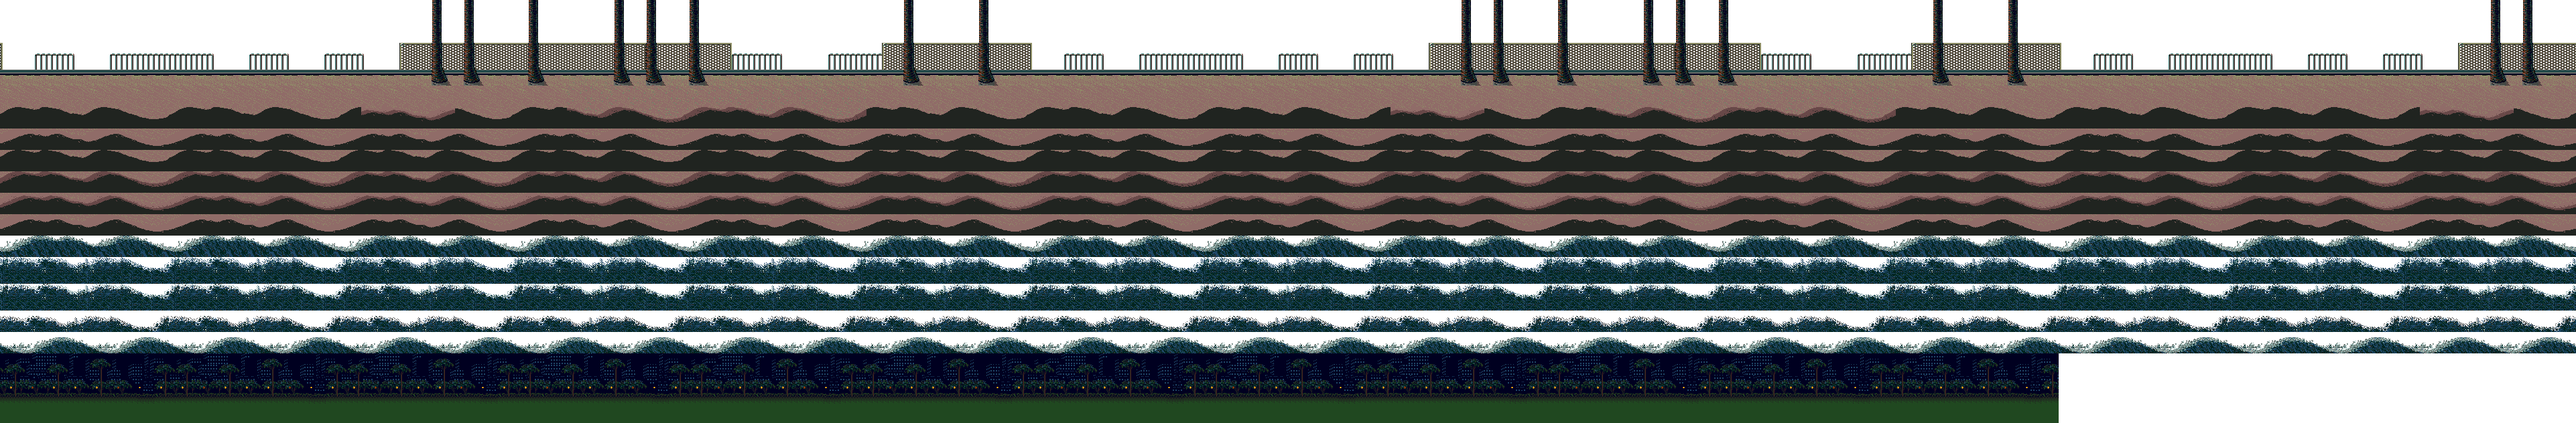
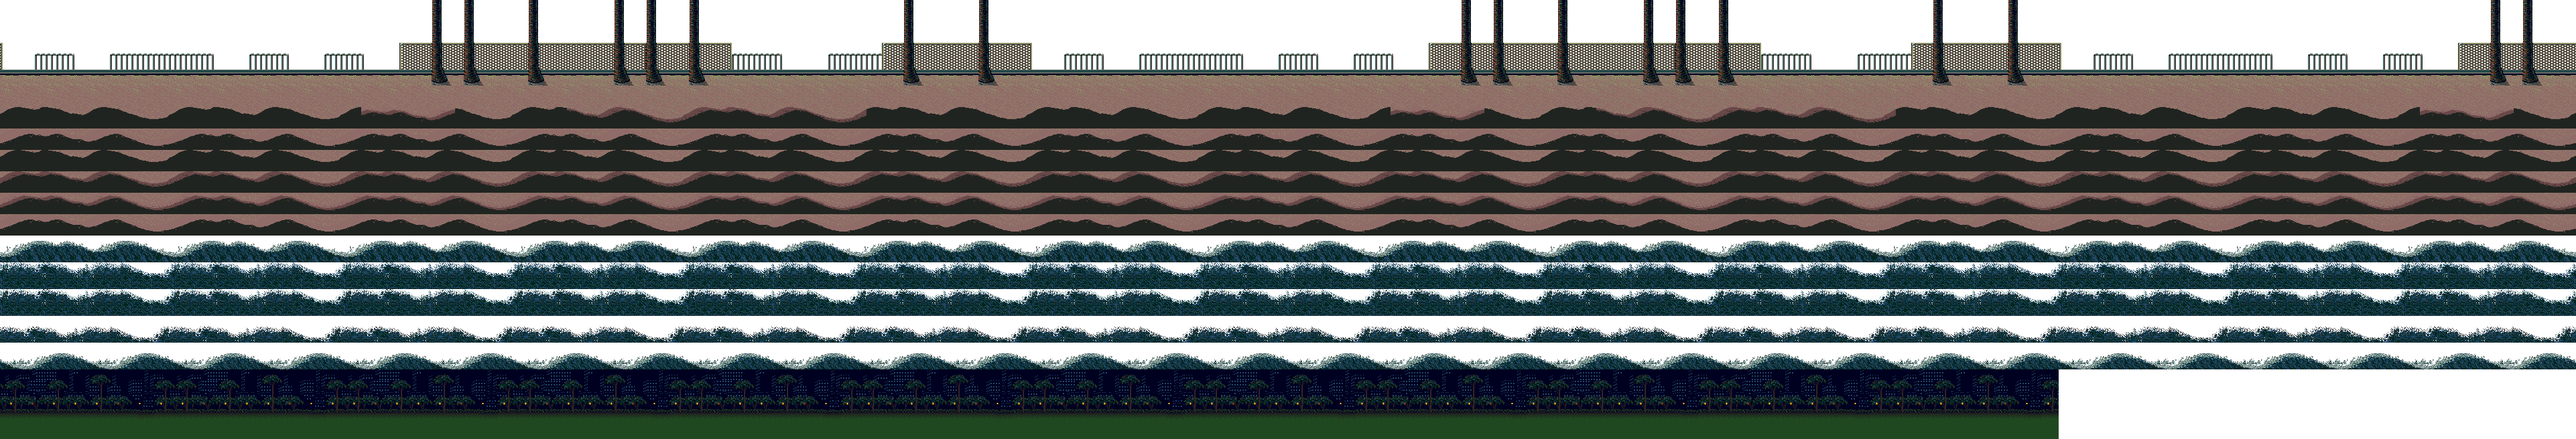
Scene3: All graphic elements in place and animated

diff --git a/ModuleScene3.cpp b/ModuleScene3.cpp
@@ -42,6 +42,15 @@ update_status ModuleScene3::Update()
 	//Draw everything
 	App->renderer->Blit(graphics, foreground_pos.x, foreground_pos.y, &foreground_section, (float) (foreground_section.w - App->window->m_screen_width) / (float)(background_section.w - App->window->m_screen_width));
 	App->renderer->Blit(graphics, background_pos.x, background_pos.y, &background_section, 1.0F);
+	App->renderer->Blit(graphics, wave_sand_pos.x, wave_sand_pos.y, &(wave_sand.GetCurrentFrame()), 1.0F);			// wet sand painted first
+	App->renderer->Blit(graphics, wave_splash_pos.x, wave_splash_pos.y, &(wave_splash.GetCurrentFrame()), 1.0F);	// waves painted last
+	return UPDATE_CONTINUE;
+}
+
+update_status ModuleScene3::PostUpdate()
+{
+
+	
 	return UPDATE_CONTINUE;
 }
 
@@ -58,6 +67,7 @@ bool ModuleScene3::LoadConfigFromFile(const char* file_path)
 	JSON_Value *root_value = json_parse_file(file_path);
 	JSON_Array *j_array_pos; 
 	JSON_Array *j_array_section;
+	JSON_Array *j_array_tmp;
 
 	if (root_value == nullptr)
 		return false;
@@ -97,9 +107,44 @@ bool ModuleScene3::LoadConfigFromFile(const char* file_path)
 	json_array_clear(j_array_section);
 
 	//wave_sand load
+	j_array_pos = json_object_dotget_array(json_object(root_value), "scene3.wave_sand.position");
+	j_array_section = json_object_dotget_array(json_object(root_value), "scene3.wave_sand.section");
 
+	wave_sand_pos.x = (int)json_array_get_number(j_array_pos, 0);
+	wave_sand_pos.y = (int)json_array_get_number(j_array_pos, 1);
+	
+	for (int i = 0; i < (int) json_array_get_count(j_array_section); ++i)
+	{
+		j_array_tmp = json_array_get_array(j_array_section, i);
+		wave_sand.frames.push_back({ (int)json_array_get_number(j_array_tmp, 0), (int)json_array_get_number(j_array_tmp, 1), (int)json_array_get_number(j_array_tmp, 2), (int)json_array_get_number(j_array_tmp, 3) });
+		json_array_clear(j_array_tmp);
+	}
 
+	wave_sand.speed = (float)json_object_dotget_number(json_object(root_value), "scene3.wave_sand.speed");
 
+	json_array_clear(j_array_pos);
+	json_array_clear(j_array_section);
+
+	//wave_splash load
+	j_array_pos = json_object_dotget_array(json_object(root_value), "scene3.wave_splash.position");
+	j_array_section = json_object_dotget_array(json_object(root_value), "scene3.wave_splash.section");
+
+	wave_splash_pos.x = (int)json_array_get_number(j_array_pos, 0);
+	wave_splash_pos.y = (int)json_array_get_number(j_array_pos, 1);
+
+	for (int i = 0; i < (int)json_array_get_count(j_array_section); ++i)
+	{
+		j_array_tmp = json_array_get_array(j_array_section, i);
+		wave_splash.frames.push_back({ (int)json_array_get_number(j_array_tmp, 0), (int)json_array_get_number(j_array_tmp, 1), (int)json_array_get_number(j_array_tmp, 2), (int)json_array_get_number(j_array_tmp, 3) });
+		json_array_clear(j_array_tmp);
+	}
+
+	wave_splash.speed = (float)json_object_dotget_number(json_object(root_value), "scene3.wave_splash.speed");
+
+	json_array_clear(j_array_pos);
+	json_array_clear(j_array_section);
+
+	// clean all and exit
 	json_value_free(root_value);
 
 	if (graphics == nullptr || music_path == "")

diff --git a/ModuleScene3.h b/ModuleScene3.h
@@ -18,6 +18,7 @@ public:
 	bool Init();
 	bool Start();
 	update_status Update();
+	update_status PostUpdate();
 	bool CleanUp();
 	
 	bool LoadConfigFromFile(const char* file_path);

diff --git a/Application.cpp b/Application.cpp
@@ -87,4 +87,3 @@ bool Application::CleanUp()
 
 	return ret;
 }
-
